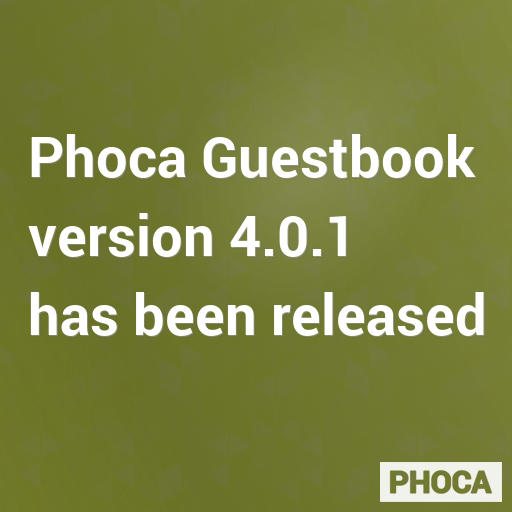
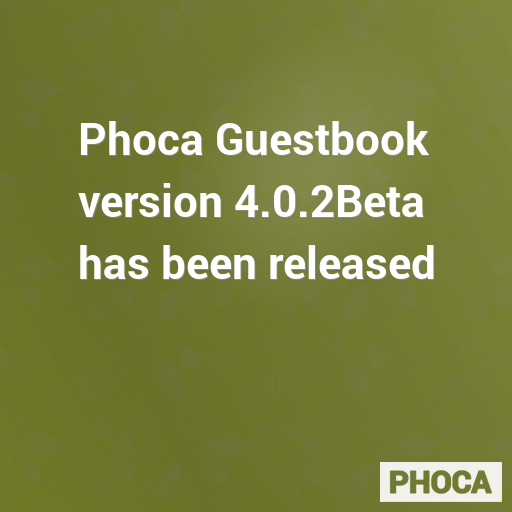
4.0.2Beta

Changed region(s): [[0.0312, 0.2188, 0.9688, 0.6562]]

diff --git a/site/assets/library/HTMLPurifier.standalone.php b/site/assets/library/HTMLPurifier.standalone.php
@@ -2443,7 +2443,7 @@ class HTMLPurifier_Config
     {
         return $this->getDefinition('HTML', true, true);
     }
-    
+
     /**
      * @return HTMLPurifier_CSSDefinition|null
      */
@@ -2451,7 +2451,7 @@ class HTMLPurifier_Config
     {
         return $this->getDefinition('CSS', true, true);
     }
-    
+
     /**
      * @return HTMLPurifier_URIDefinition|null
      */
@@ -8320,7 +8320,7 @@ class HTMLPurifier_PropertyListIterator extends FilterIterator
     /**
      * @return bool
      */
-    public function accept()
+    public function accept() : bool
     {
         $key = $this->getInnerIterator()->key();
         if (strncmp($key, $this->filter, $this->l) !== 0) {
@@ -8438,7 +8438,7 @@ class HTMLPurifier_StringHash extends ArrayObject
      * @param mixed $index
      * @return mixed
      */
-    public function offsetGet($index)
+    public function offsetGet($index) : mixed
     {
         $this->accessed[$index] = true;
         return parent::offsetGet($index);

diff --git a/site/helpers/phocaguestbookcaptcha.php b/site/helpers/phocaguestbookcaptcha.php
@@ -589,7 +589,7 @@ class PhocaguestbookHelperCaptchaEasycalc
 	$params->get('calc_max_value', 20)  // Determine max. operand
 	$params->get('calc_negativ') == 0)*/
 
-	public function createCaptchaData($typeOfOperator, $numOfOperand, $convertToString, $maxValue, $useNegativ){
+	public static function createCaptchaData($typeOfOperator, $numOfOperand, $convertToString, $maxValue, $useNegativ){
 		$captcha = array();
 
         // Determine values
@@ -651,7 +651,7 @@ class PhocaguestbookHelperCaptchaEasycalc
 	}
 
     // Convert numbers into strings, depending on type
-    private function converttostring($x, $type)
+    private static function converttostring($x, $type)
     {
 		switch ($type){
 			case 0: $convert = 0;   break; //do not convert

diff --git a/site/views/guestbook/view.html.php b/site/views/guestbook/view.html.php
@@ -266,7 +266,7 @@ class PhocaguestbookViewGuestbook extends HtmlView
 			$document->addCustomTag('<style type="text/css"> .pgb-comment:after { '."\n\t".'content: "'.Text::_('COM_PHOCAGUESTBOOK_CSS_COMMENT').'";'."\n".'}</style>');
 		}
 		//Escape strings for HTML output
-		$this->pageclass_sfx = htmlspecialchars($params->get('pageclass_sfx'));
+		$this->pageclass_sfx = htmlspecialchars((string)$params->get('pageclass_sfx'));
 
 
 		// Create a shortcut

diff --git a/site/models/rules/phocaguestbookemail.php b/site/models/rules/phocaguestbookemail.php
@@ -39,7 +39,7 @@ class JFormRulePhocaguestbookEmail extends EmailRule
 
 		//BANNED EMAIL
 		$banned = $params->get('banned_email');
-		foreach(explode(';', $banned) as $item){
+		foreach(explode(';', (string)$banned) as $item){
 			if (trim($item) != '')
 			if (StringHelper::stristr($item, $value) !== false){
 					//return new JException(Text::_('COM_PHOCAGUESTBOOK_BAD_EMAIL' ), "105", E_USER_ERROR, $info, false);

diff --git a/README.MD b/README.MD
@@ -58,7 +58,7 @@ Phoca Guestbook is Joomla! CMS component. It displays guestbook form with Captch
 
 ## Version (Joomla! 4.x)
 
-4.0.1
+4.0.2Beta
 
 
 
